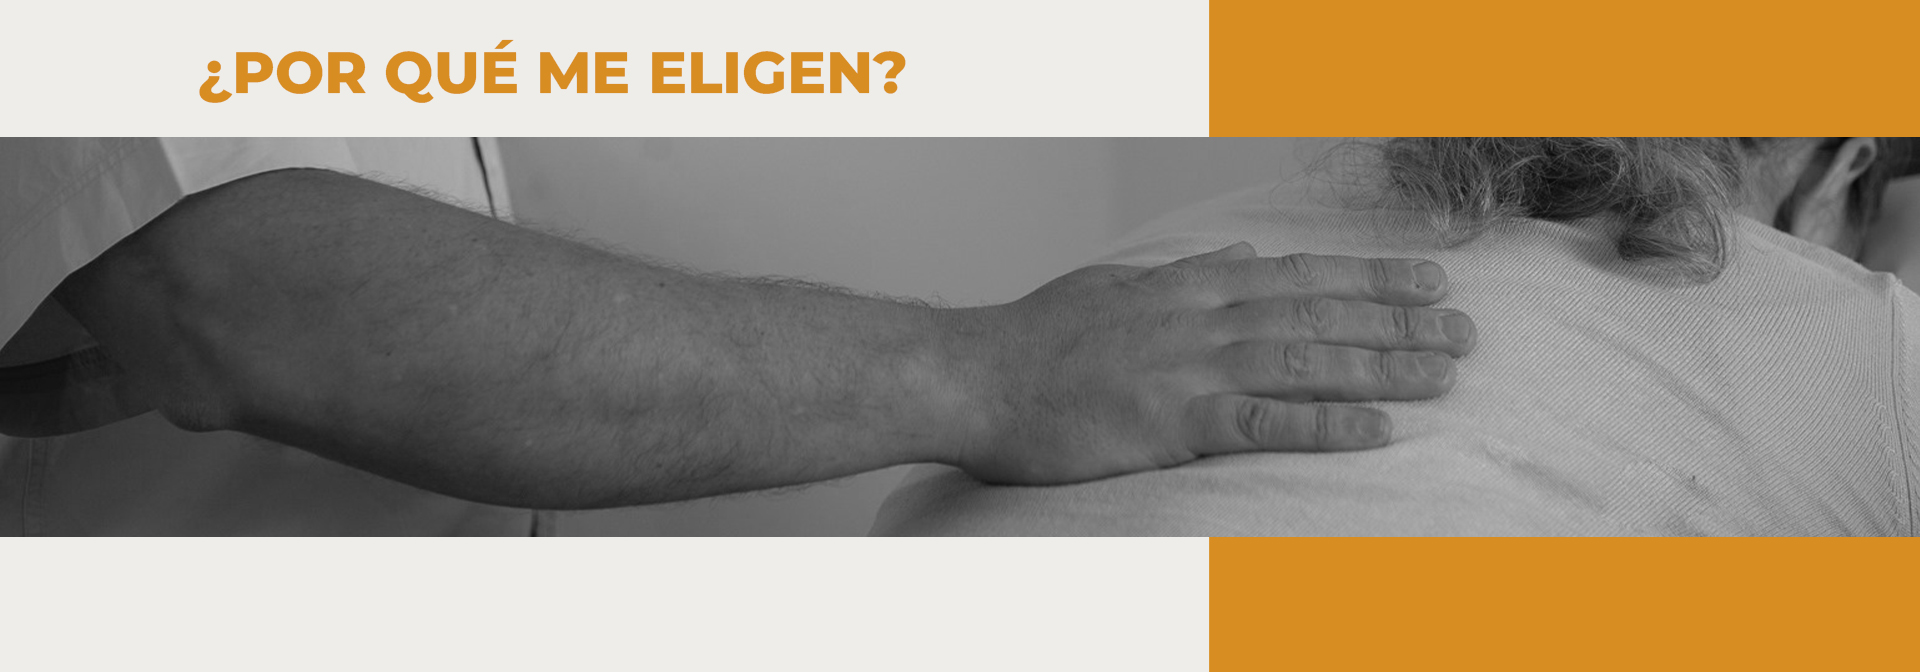
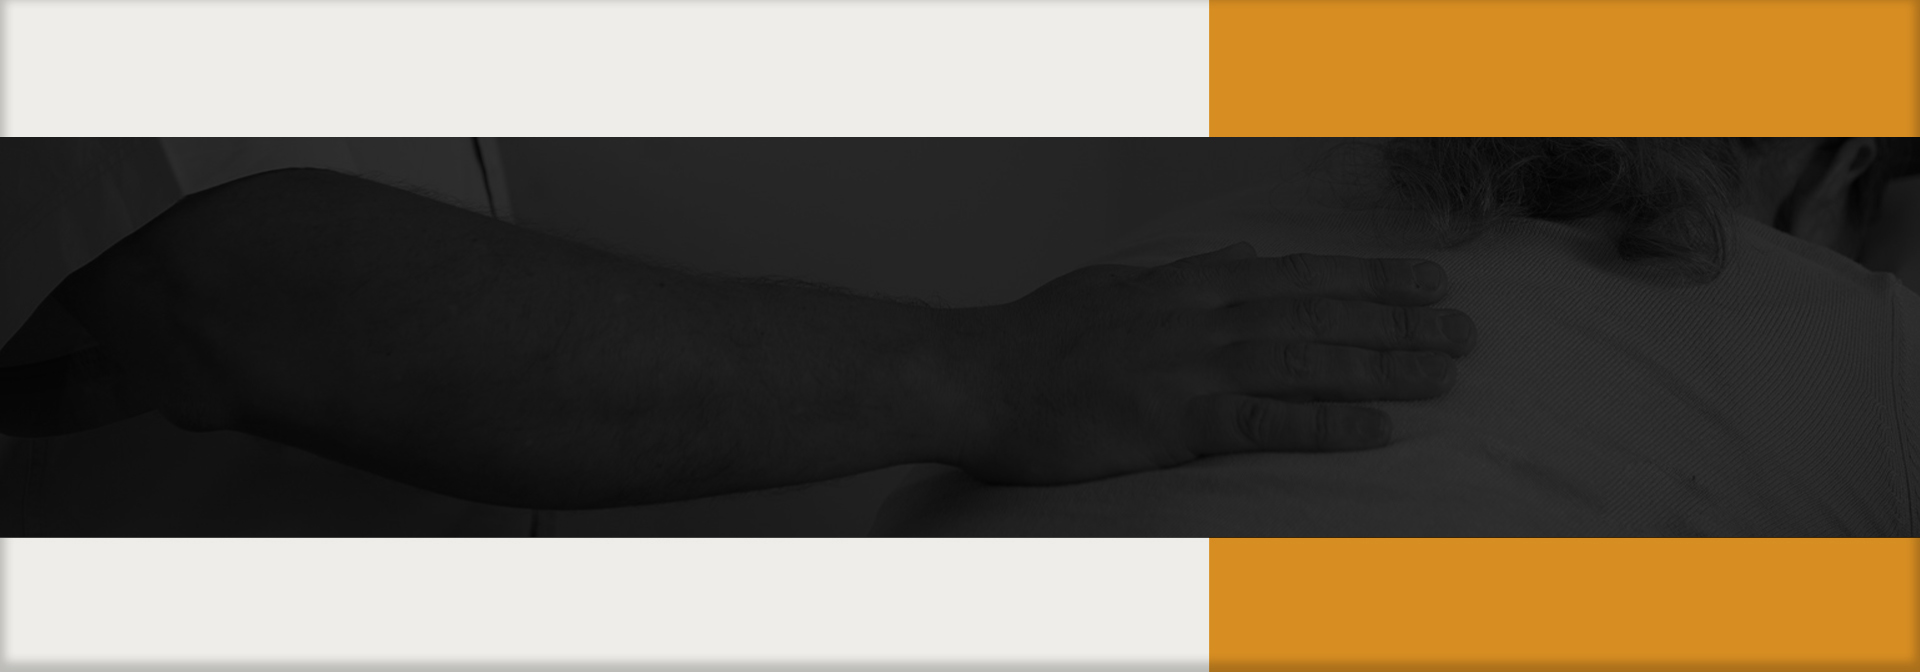
rearmando el html de ¿por qué me eligen?

diff --git a/pages/por-que-me-eligen.html b/pages/por-que-me-eligen.html
@@ -14,121 +14,168 @@
     <link rel="preconnect" href="https://fonts.googleapis.com">
     <link rel="preconnect" href="https://fonts.gstatic.com" crossorigin>
     <link href="https://fonts.googleapis.com/css2?family=Montserrat:ital,wght@0,100..900;1,100..900&display=swap" rel="stylesheet">
+    <link rel="preconnect" href="https://fonts.googleapis.com">
+    <link rel="preconnect" href="https://fonts.gstatic.com" crossorigin>
+    <link href="https://fonts.googleapis.com/css2?family=MonteCarlo&display=swap" rel="stylesheet">
     <link href="https://cdn.jsdelivr.net/npm/bootstrap@5.3.8/dist/css/bootstrap.min.css" rel="stylesheet" 
     integrity="sha384-sRIl4kxILFvY47J16cr9ZwB07vP4J8+LH7qKQnuqkuIAvNWLzeN8tE5YBujZqJLB" crossorigin="anonymous">
-    <link rel="stylesheet" href="../css/style.css">
+    <link rel="stylesheet" href="../css/main.css">
+    <script src="https://kit.fontawesome.com/0647e7d9bc.js" crossorigin="anonymous"></script>
 </head>
 
 
 <body>
     <header>
         <!--encabezado-->
-        <img src="../assets/firma_marcelo.png" alt="Firma de Marcelo Barroso Griffiths">
-
         <nav>
-            <ul>
-                <li></li><a href="../index.html">Inicio</a>
-                <li></li><a href="./tu-quiropractico.html">Tu Quiropráctico</a>
-                <li></li><a href="./en-los-medios.html">En los medios</a>
-                <li></li><a href="#">¿Por qué me eligen?</a>
-                <li></li><a href="./contacto.html">Contacto</a>
+            <div class="logo">
+                <h1 class="logo">Marcelo Barroso Griffiths</h1>
+            </div>
+
+            <ul class="nav-links">
+                <li><a href="../index.html" class="nav-links">Inicio</a></li>
+                <li><a href="./tu-quiropractico.html" class="nav-links">Tu Quiropráctico</a></li>
+                <li><a href="./en-los-medios.html" class="nav-links">En los medios</a></li>
+                <li><a href="#" class="nav-links">¿Por qué me eligen?</a></li>
+                <li><a href="./contacto.html" class="nav-links">Contacto</a></li>
             </ul>
         </nav>
     </header>
 
     <main>
         <!--contenido principal-->
-        <section>
-            <img src="../assets/Banner por que me eligen.jpg" alt="Banner ¿Por qué me eligen?">
+        <section id="Eligen" class="banner-eligen">
+            <div class="banner-content">
+                <h2>¿Por qué me eligen?</h2>
+                <p>Descubre por qué la quiropraxia te ayuda a recuperar el equilibrio, energía y bienestar en tu vida</p>
+                <a href="#beneficios" target="_blank" class="btn-primary">Ver beneficios</a>
+            </div>
         </section>
 
-        <section>
+        <section id="quiropraxia" class="quiropraxia-section">
             <h2>¿Qué es la quiropraxia?</h2>
             <p>La quiropraxia es un arte natural basada en el cuidado de la columna vertebral libre de cualquier fármaco que mantiene la salud de todo el sistema nervioso. Cuando la columna no se mueve con libertad, hablamos de subluxación, esta se da cuando dos o mas vertebras pierden su motricidad y/o su posición nomal, esto puede causar la interrupción del flujo del sistema nervioso e interferir con la comunicación entre el cuerpo y el cerebro. La degeneración de la columna no tiene que ver con su edad. El origen de la subluxación puede ser por mala postura, jardinería, estrés químico (medicamentos), embarazo, levantar peso incorrectamente, estrés físico y deportes. La quiropráxia ayuda a solucionar estos problemas localizando y ajustando las interferencias en la columna para que el sistema nervioso pueda funcionar al nivel optimo brindándote así, Salud, Bienestar y calidad de vida.</p>
         </section>
 
-        <section>
+        <section id="valores" class="valores-section">
             <h2>¿Por qué me eligen?</h2>
 
-            <article>
-                <img src="../assets/compromiso activo.png" alt="Icono Compromiso activo">
-                <h3>Compromiso Activo</h3>
-                <p>Acompaño a las personas en su decisión de cuidarse desde la conciencia y la intención.</p>
-            </article>
+            <div class="valores-grid">
 
-            <article>
-                <img src="../assets/potencia tu vitalidad.png" alt="Icono Potencia tu vitalidad">
-                <h3>Potencia tu vitalidad</h3>
-                <p>Más energía, movilidad y descanso reparador.</p>
-            </article>
+                <!--columna izquierda-->
+                <div class="valores-item">
 
-            <article>
-                <img src="../assets/tratamiento personalizado.png" alt="Icono Tratamiento 100% personalizado">
-                <h3>Tratamiento 100% personalizado</h3>
-                <p>Escucho, respeto y estoy presente para cada persona que elige transformar su vida con quiropraxia.</p>
-            </article>
+                    <div class="valor">
+                        <img src="../assets/compromiso activo.png" alt="Icono Compromiso activo">
+                        <h3>Compromiso Activo</h3>
+                        <p>Acompaño a las personas en su decisión de cuidarse desde la conciencia y la intención.</p>
+                    </div>
 
-            <article>
-                <img src="../assets/bienestar integral.png" alt="Icono Bienestar integral">
-                <h3>Bienestar integral</h3>
-                <p>Trabajo para alinear no solo la columna, sino también la experiencia física, emocional y mental de cada persona.</p>
-            </article> 
-            
-            <img src="../assets/ajuste1.jpg" alt="Fotos ajustes quiroprácticos">
+                    <div class="valor">
+                        <img src="../assets/potencia tu vitalidad.png" alt="Icono Potencia tu vitalidad">
+                        <h3>Potencia tu vitalidad</h3>
+                        <p>Más energía, movilidad y descanso reparador.</p>                       
+                    </div>    
+                    
+
+                    <div class="valor">
+                        <img src="../assets/tratamiento personalizado.png" alt="Icono Tratamiento personalizado">
+                        <h3>Tratamiento 100% personalizado</h3>
+                        <p>Escucho, respeto y estoy presente para cada persona que elige transformar su vida con quiropraxia.</p>                       
+                    </div>                
+
+                    <div class="valor">
+                    <img src="../assets/bienestar integral.png" alt="Icono Bienestar integral">
+                    <h3>Bienestar integral</h3>
+                    <p>Trabajo para alinear no solo la columna, sino también la experiencia física, emocional y mental de cada persona.</p>      
+                    </div> 
+                </div>
+
+                <!--columna derecha-->
+                <div class="valores-item">
+                    <img src="../assets/ajuste1.jpg" alt="Foto ajuste quiropráctico">
+                </div>
+
+            </div>
         </section>
 
-        <section>
+        <section id="beneficios" class="beneficios-section">
             <h2>¿Quienes me eligen?</h2>
-            
-            <article>
-                <h3>Embarazo</h3>
-                <p>Incluyendo la quiropraxia entre otros hábitos de bienestar, puedes crear un entorno óptimo para el bebé.</p>
-            </article>
 
-            <article>
-                <h3>Niños</h3>
-                <p>El sistema nervioso de un niño esta en constante evolución, creando billones de conexiones neurológicas. Es fundamental que se desarrolle sin interferencias.</p>
-            </article>
-            
-            <article>
-                <h3>Deportistas</h3>
-                <p>El enfoque de la Quiropráctica sobre el sistema nervioso y la biomecánica de la postura permiten al cuerpo funcionar al 100% y curarse a sí mismo.</p>
-            </article>
-            
-            <article>
-                <h3>Tercer Edad</h3>
-                <p>El envejecimiento es un proceso natural. Por ello es tan importante tomar medidas preventivas para frenar o ralentizar los aspectos más desvitalizantes del envejecimiento.</p>
-            </article>         
+            <div class="beneficios-grid">
+
+                <div class="beneficios-item">
+                    <h3>Embarazo</h3>
+                    <p>Incluyendo la quiropraxia entre otros hábitos de bienestar, puedes crear un entorno óptimo para el bebé.</p>                   
+                </div>            
+
+                <div class="beneficios-item">
+                    <h3>Niños</h3>
+                    <p>El sistema nervioso de un niño esta en constante evolución, creando billones de conexiones neurológicas. Es fundamental que se desarrolle sin interferencias.</p>                   
+                </div> 
+                
+                <div class="beneficios-item">
+                    <h3>Deportistas</h3>
+                    <p>El enfoque de la Quiropráctica sobre el sistema nervioso y la biomecánica de la postura permiten al cuerpo funcionar al 100% y curarse a sí mismo.</p>                   
+                </div>                
+
+                <div class="beneficios-item">
+                    <h3>Tercer Edad</h3>
+                    <p>El envejecimiento es un proceso natural. Por ello es tan importante tomar medidas preventivas para frenar o ralentizar los aspectos más desvitalizantes del envejecimiento.</p>                   
+                </div> 
+
+            </div>   
+
         </section>
+        
     </main>
 
-    <footer class="piepagina">
+    <footer class="footer">
+        <div class="footer-container">
 
-        <div class="firmapie">
-         <img src="../assets/firma_marcelo.png" alt="Firma Marcelo Barroso Griffiths">
+            <div class="footer-col">
+                <h3 class="footer-logo">Marcelo Barroso Griffiths</h3>
+                <p class="footer-servicio">QUIROPRÁCTICO</p>
+                <div class="footer-social">
+                <a href="https://www.instagram.com/vertebralle_quiropraxia" target="_blank">
+                    <img src="../assets/instagram.png" alt="Logo Instagram">
+                </a>
+                
+                <a href="https://www.facebook.com/MarceloQuiropractico" target="_blank">
+                    <img src="../assets/facebook.png" alt="Logo Facebook">
+                </a>
+                
+                <a href="https://www.tiktok.com/@vertebralle?lang=es-419" target="_blank">
+                    <img src="../assets/tiktok.png" alt="Logo TikTok">
+                </a>
+                
+                <a href="https://x.com/Mbquiropraxia" target="_blank">
+                    <img src="../assets/x.png" alt="Logo X">
+                </a>
+                </div>
+            </div>
+
+            <div class="footer-col">
+                <h4>EXPLORAR</h4>
+                <ul>
+                <li><a href="../index.html">Inicio</a></li>
+                <li><a href="./tu-quiropractico.html">Tu Quiropráctico</a></li>
+                <li><a href="./en-los-medios.html">En los medios</a></li>
+                <li><a href="#">¿Por qué me eligen?</a></li>
+                <li><a href="./contacto.html">Contacto</a></li>
+                </ul>
+            </div>
+
+            <div class="footer-col">
+                <h4>Agenda tu consulta</h4>
+                <a class="footer-celu" href="https://wa.link/tg10we" target="_blank">+54 9 11 3759-0567</a>
+            </div>
+            
         </div>
-        <div class="footer-links">
-            <a href="https://www.instagram.com/vertebralle_quiropraxia" target="_blank">
-                <img src="../assets/instagram.png" alt="Logo Instagram">
-            </a>
 
-            <a href="https://www.facebook.com/MarceloQuiropractico" target="_blank">
-                <img src="../assets/facebook.png" alt="Logo Facebook">
-            </a>
-
-            <a href="https://www.tiktok.com/@vertebralle?lang=es-419" target="_blank">
-                <img src="../assets/tiktok.png" alt="Logo Tik Tok">
-            </a>
-
-            <a href="https://x.com/Mbquiropraxia" target="_blank">
-                <img src="../assets/x.png" alt="Logo X">
-            </a>
+        <div class="footer-copyright">
+        <p>Copyright &copy; 2025 MARCELO BARROSO GRIFFITHS. Designed and Developed by Micaela Barroso.</p>
         </div>
-        <p>Hacenos tu consulta:</p>
-        <a href="https://wa.link/tg10we" target="_blank">+54 9 11 3759-0567</a>
-
-        <p>Copyright &copy; 2025 VERTEBRALLE. Designed and Developed by Micaela Barroso.</p>
-
     </footer>
  <script src="https://cdn.jsdelivr.net/npm/bootstrap@5.3.8/dist/js/bootstrap.bundle.min.js" 
  integrity="sha384-FKyoEForCGlyvwx9Hj09JcYn3nv7wiPVlz7YYwJrWVcXK/BmnVDxM+D2scQbITxI" crossorigin="anonymous"></script>   

diff --git a/scss/_porquemeeligen.scss b/scss/_porquemeeligen.scss
@@ -1,0 +1,55 @@
+body{
+    main{
+        section.banner-eligen{
+            height: 100vh;
+            background:url(../assets/Banner\ por\ que\ me\ eligen.jpg) center/cover;
+            display: flex;
+            align-items: center;
+            justify-items: center;
+            justify-content: center;
+            text-align: center;
+            color: $color-blanco;
+
+            div{
+                h2{
+                    font-size: 3rem;
+                    font-weight: bold;
+                    color: $color-amarillo;
+                    margin-bottom: 1rem;
+                }
+                p{
+                    font-size: 1rem;
+                    font-weight: bold;
+                }
+
+                a.btn-primary{
+                    margin-top: 20px;
+                    text-decoration: none;
+                    font-weight: bold;
+                }
+            }
+            
+
+        }
+
+        section.quiropraxia-section{
+            h2{
+                margin-bottom: 3rem;
+                font-weight: bolder;
+                display: inline-block;      
+                border-bottom: 5px solid $color-amarillo;
+                padding-bottom: 0.4rem;  
+            }
+            padding: 5rem 2rem;
+            background-color: $color-blanco;
+            text-align: center;
+
+
+
+        }
+
+
+
+
+    }
+}

diff --git a/css/main.css b/css/main.css
@@ -442,4 +442,42 @@ body main section.ubicacion-section div.ubicacion-grid div.ubicacion-item div.ma
   }
 }
 
+body main section.banner-eligen {
+  height: 100vh;
+  background: url(../assets/Banner\ por\ que\ me\ eligen.jpg) center/cover;
+  display: flex;
+  align-items: center;
+  justify-items: center;
+  justify-content: center;
+  text-align: center;
+  color: #eeede9;
+}
+body main section.banner-eligen div h2 {
+  font-size: 3rem;
+  font-weight: bold;
+  color: #d88c21;
+  margin-bottom: 1rem;
+}
+body main section.banner-eligen div p {
+  font-size: 1rem;
+  font-weight: bold;
+}
+body main section.banner-eligen div a.btn-primary {
+  margin-top: 20px;
+  text-decoration: none;
+  font-weight: bold;
+}
+body main section.quiropraxia-section h2 {
+  margin-bottom: 3rem;
+  font-weight: bolder;
+  display: inline-block;
+  border-bottom: 5px solid #d88c21;
+  padding-bottom: 0.4rem;
+}
+body main section.quiropraxia-section {
+  padding: 5rem 2rem;
+  background-color: #eeede9;
+  text-align: center;
+}
+
 /*# sourceMappingURL=main.css.map */

diff --git a/scss/main.scss b/scss/main.scss
@@ -3,3 +3,4 @@
 @import "buttons";
 @import "enlosmedios"; 
 @import "contacto";
+@import "porquemeeligen"
